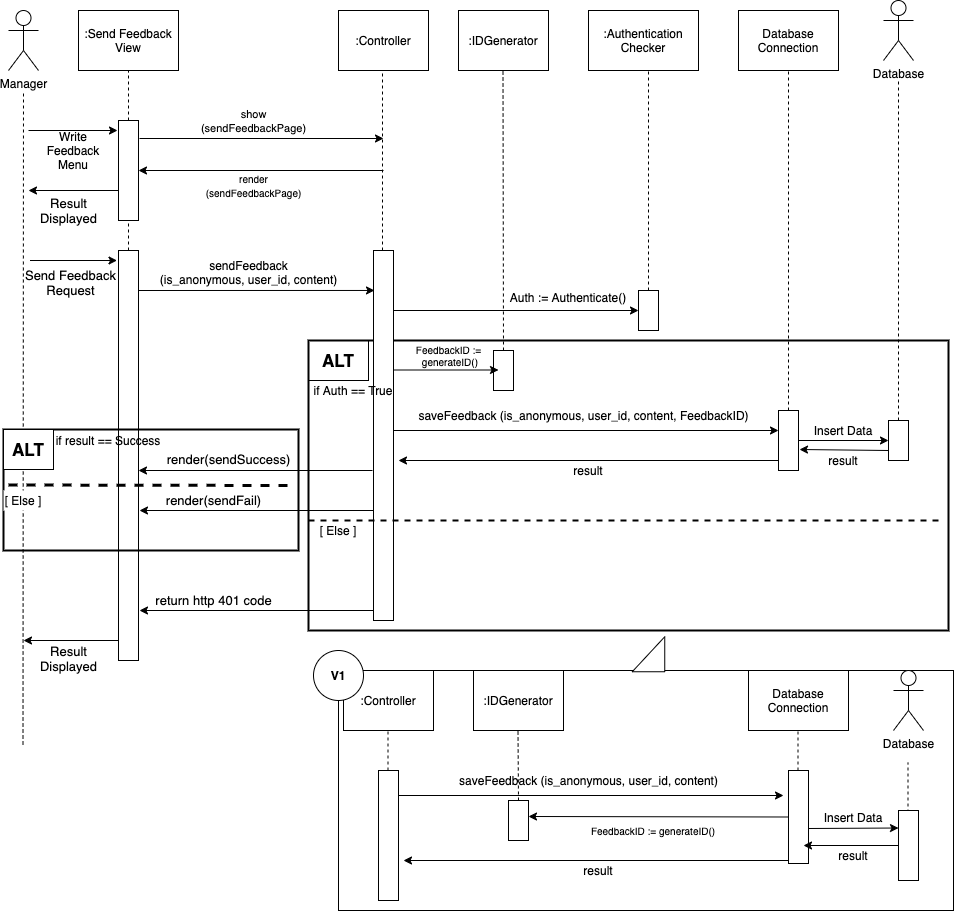
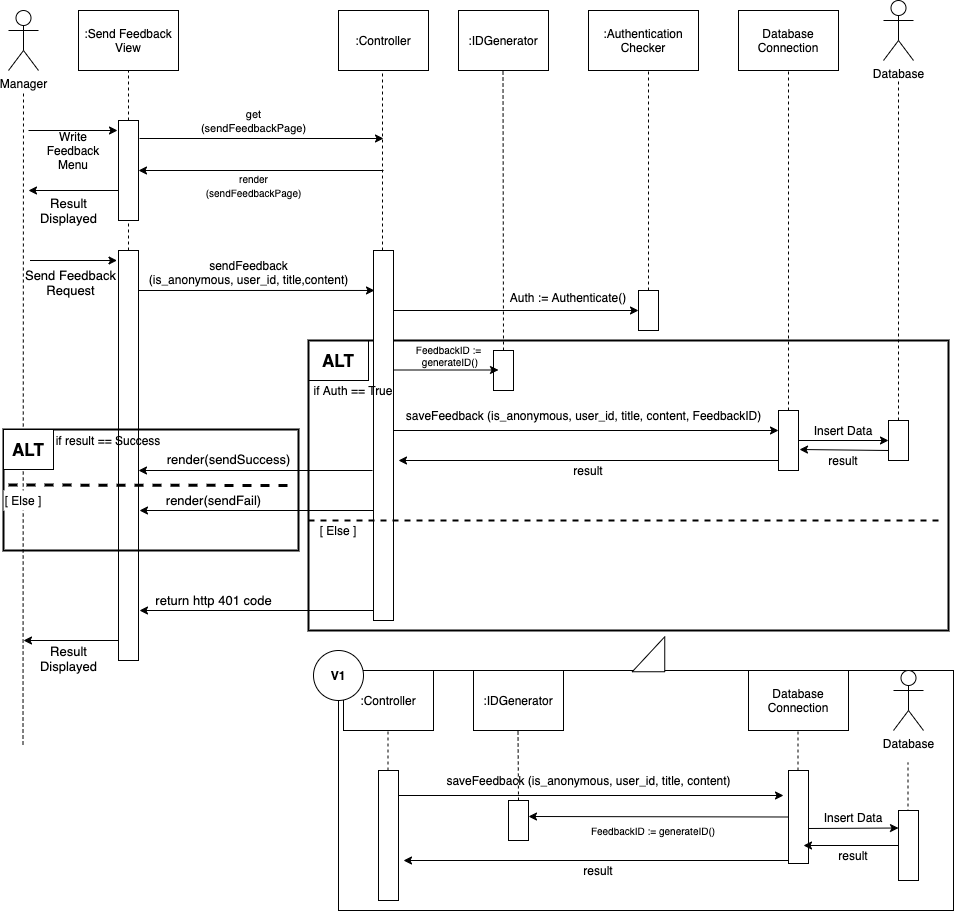
doc: upload description SD-01,14,20

diff --git a/docs/SequenceDiagram/descriptions/SD-UC-01-description.md b/docs/SequenceDiagram/descriptions/SD-UC-01-description.md
@@ -1,0 +1,25 @@
+## Responsibility
+
+- Login View : Login을 하기위한 인터페이스이다.
+   사용자의 Login data를 서버에 전송한다.
+- AddBook View : 도서를 추가하기 위한 인터페이스이다.
+로그인에 성공한 사용자가 Manager일 경우, Controller는 해당 View를 Render한다.
+- SearchBook View : 도서를 검색하기 위한 인터페이스이다.
+로그인에 성공한 사용자가 Guest일 경우, Controller는 해당 View를 Render한다.
+- Controller: View에게 받은 요청을 처리하기 위해 다른 Responsibility로 작업을 전달한다.
+- Token Generator: 로그인에 성공할 경우, 로그인 Token 생성 요청을 받아 처리한다.
+- Database Connection: 데이터베이스에 접근한다.
+
+## Communications
+
+- newToken(): 사용자가 로그인에 성공하면 로그인 토큰을 반환한다.
+- checkLoginData(user_type, id, pw): 사용자가 입력한 정보가 올바른 정보인지 데이터베이스에서 확인한다.
+- get: LoginView request를 Controller에 전달하고 처리 결과를 반환받는다.
+- render : 응답에 대해서 적절한 처리 이후 사용자 인터페이스를 생성한다.
+
+## The reason for not choosing V1
+
+- Database Connection의 Responsibilty는 Controller로 부터 Login Data를 전달받으면 Valid data인지 여부를 확인하는 것이다.<br>
+- V1에서는 Database Connection이 Valid 여부를 판단하여, valid하다면 Token Generator에게 Token생성에 대한 요청을 보내고, 요청을 받은 TokenGenerator는 Controller에게 신규 토큰을 발급해준다.
+- 하지만 Controller가 DB Connection으로부터 LoginSuccess Signal을 받으면, Controller가 다시 Token Generator에게 토큰 발급 요청을 보내도록 처리하였다.
+  Controller는 View에게 받은 요청을 처리하기 위해 다양한 작업을 필요로 하는 반면, DB Connection에게 DB접근 이상의 책임을 지우는 것을 피하기 위해 V1을 체택하지 않았다.

diff --git a/docs/SequenceDiagram/descriptions/SD-UC-14-description.md b/docs/SequenceDiagram/descriptions/SD-UC-14-description.md
@@ -1,0 +1,23 @@
+## Responsibility
+
+- Add Guest View : Guest 추가를 위한 인터페이스이다. 서버로 Guest add reqeust를 전송한다.
+- Controller: View에게 받은 요청을 처리하기 위해 다른 Responsibility로 작업을 전달한다.
+- ID Generator: 사용자를 추가하는 과정 중, Guest Seq를 자동으로 생성한다.
+- Authentication Checker: 사용자가 인증되었는지 확인한다.
+- New Comer Checker: 전달받은 Data가 이미 데이터베이스에 저장된 정보인지 확인한다.
+- Database Connection: 데이터베이스에 접근한다.
+
+## Communications
+
+- get: Add guest request를 Controller에 전달하고 처리 결과를 반환받는다.
+- Authenticate: 사용자가 인증되었는지 확인하고 그 결과를 반환한다.
+- addUser(ID, userData): 사용자 정보를 데이터베이스에 기록하고 성공적으로 저장되었는지 반환한다.
+- NewComerChecker: 이미 데이터베이스에 등록된 사용자인지 확인한다.
+- genereateID: 새로운 guest에 대한 Seq를 생성 및 반환한다.
+- render : 응답에 대해서 적절한 처리 이후 사용자 인터페이스를 생성한다.
+
+## The reason for not choosing V1
+
+- Database Connection의 Responsibilty는 Database에 새로운 정보를 기록하는 것이다.<br>
+  V1에서는 Database Connection이 Controller로 부터 Add Request를 전달받으면 직접 ID Generator로부터 새로운 ID를 발급받아 Database에 Recording한다.<br>
+  위의 Variation으로 구현할 경우, Controller의 point에서는 Add Request에 대한 단 한번의 요청만이 요구되지만, Database Connection이 본래의 역할인 DB Recording을 제외한 새로운 책임을 가지게 되므로 해당 Variation을 체택하지 않았다.

diff --git a/docs/SequenceDiagram/descriptions/SD-UC-20-description.md b/docs/SequenceDiagram/descriptions/SD-UC-20-description.md
@@ -1,0 +1,22 @@
+## Responsibility
+
+- Send Feedback View : Feedback을 작성하기 위한 인터페이스이다.
+   사용자의 Feedback 전송을 서버에 요청한다.
+- Controller: View에게 받은 요청을 처리하기 위해 다른 Responsibility로 작업을 전달한다.
+- ID Generator: Feedback을 작성 및 전송하는 과정 중, Feedback에 대한 Seq를 자동으로 생성한다.
+- Authentication Checker: 사용자가 인증되었는지 확인한다.
+- Database Connection: 데이터베이스에 접근한다.
+
+## Communications
+
+- get: Send Feedback request를 Controller에 전달하고 처리 결과를 반환받는다.
+- Authenticate: 사용자가 인증되었는지 확인하고 그 결과를 반환한다.
+- saveFeedback(is_anonymous, user_id, title, content, FeedbackID): 사용자가 작성한 Feedback을 데이터베이스에 저장하고, 처리 결과를 반환한다.
+- genereateID: 새로운 Feedback에 대한 Seq를 생성 및 반환한다.
+- render : 응답에 대해서 적절한 처리 이후 사용자 인터페이스를 생성한다.
+
+## The reason for not choosing V1
+
+- Database Connection의 Responsibilty는 Database에 새로운 정보를 기록하는 것이다.<br>
+  V1에서는 Database Connection이 Controller로 부터 Save Feedback Request를 전달받으면 직접 ID Generator로부터 새로운 Feedback ID를 발급받아 Database에 Recording한다.<br>
+  위의 Variation으로 구현할 경우, Controller의 point에서는 Save Feedback Request에 대한 단 한번의 요청만이 요구되지만, Database Connection이 본래의 역할인 DB Recording을 제외한 새로운 책임을 가지게 되므로 해당 Variation을 체택하지 않았다.
